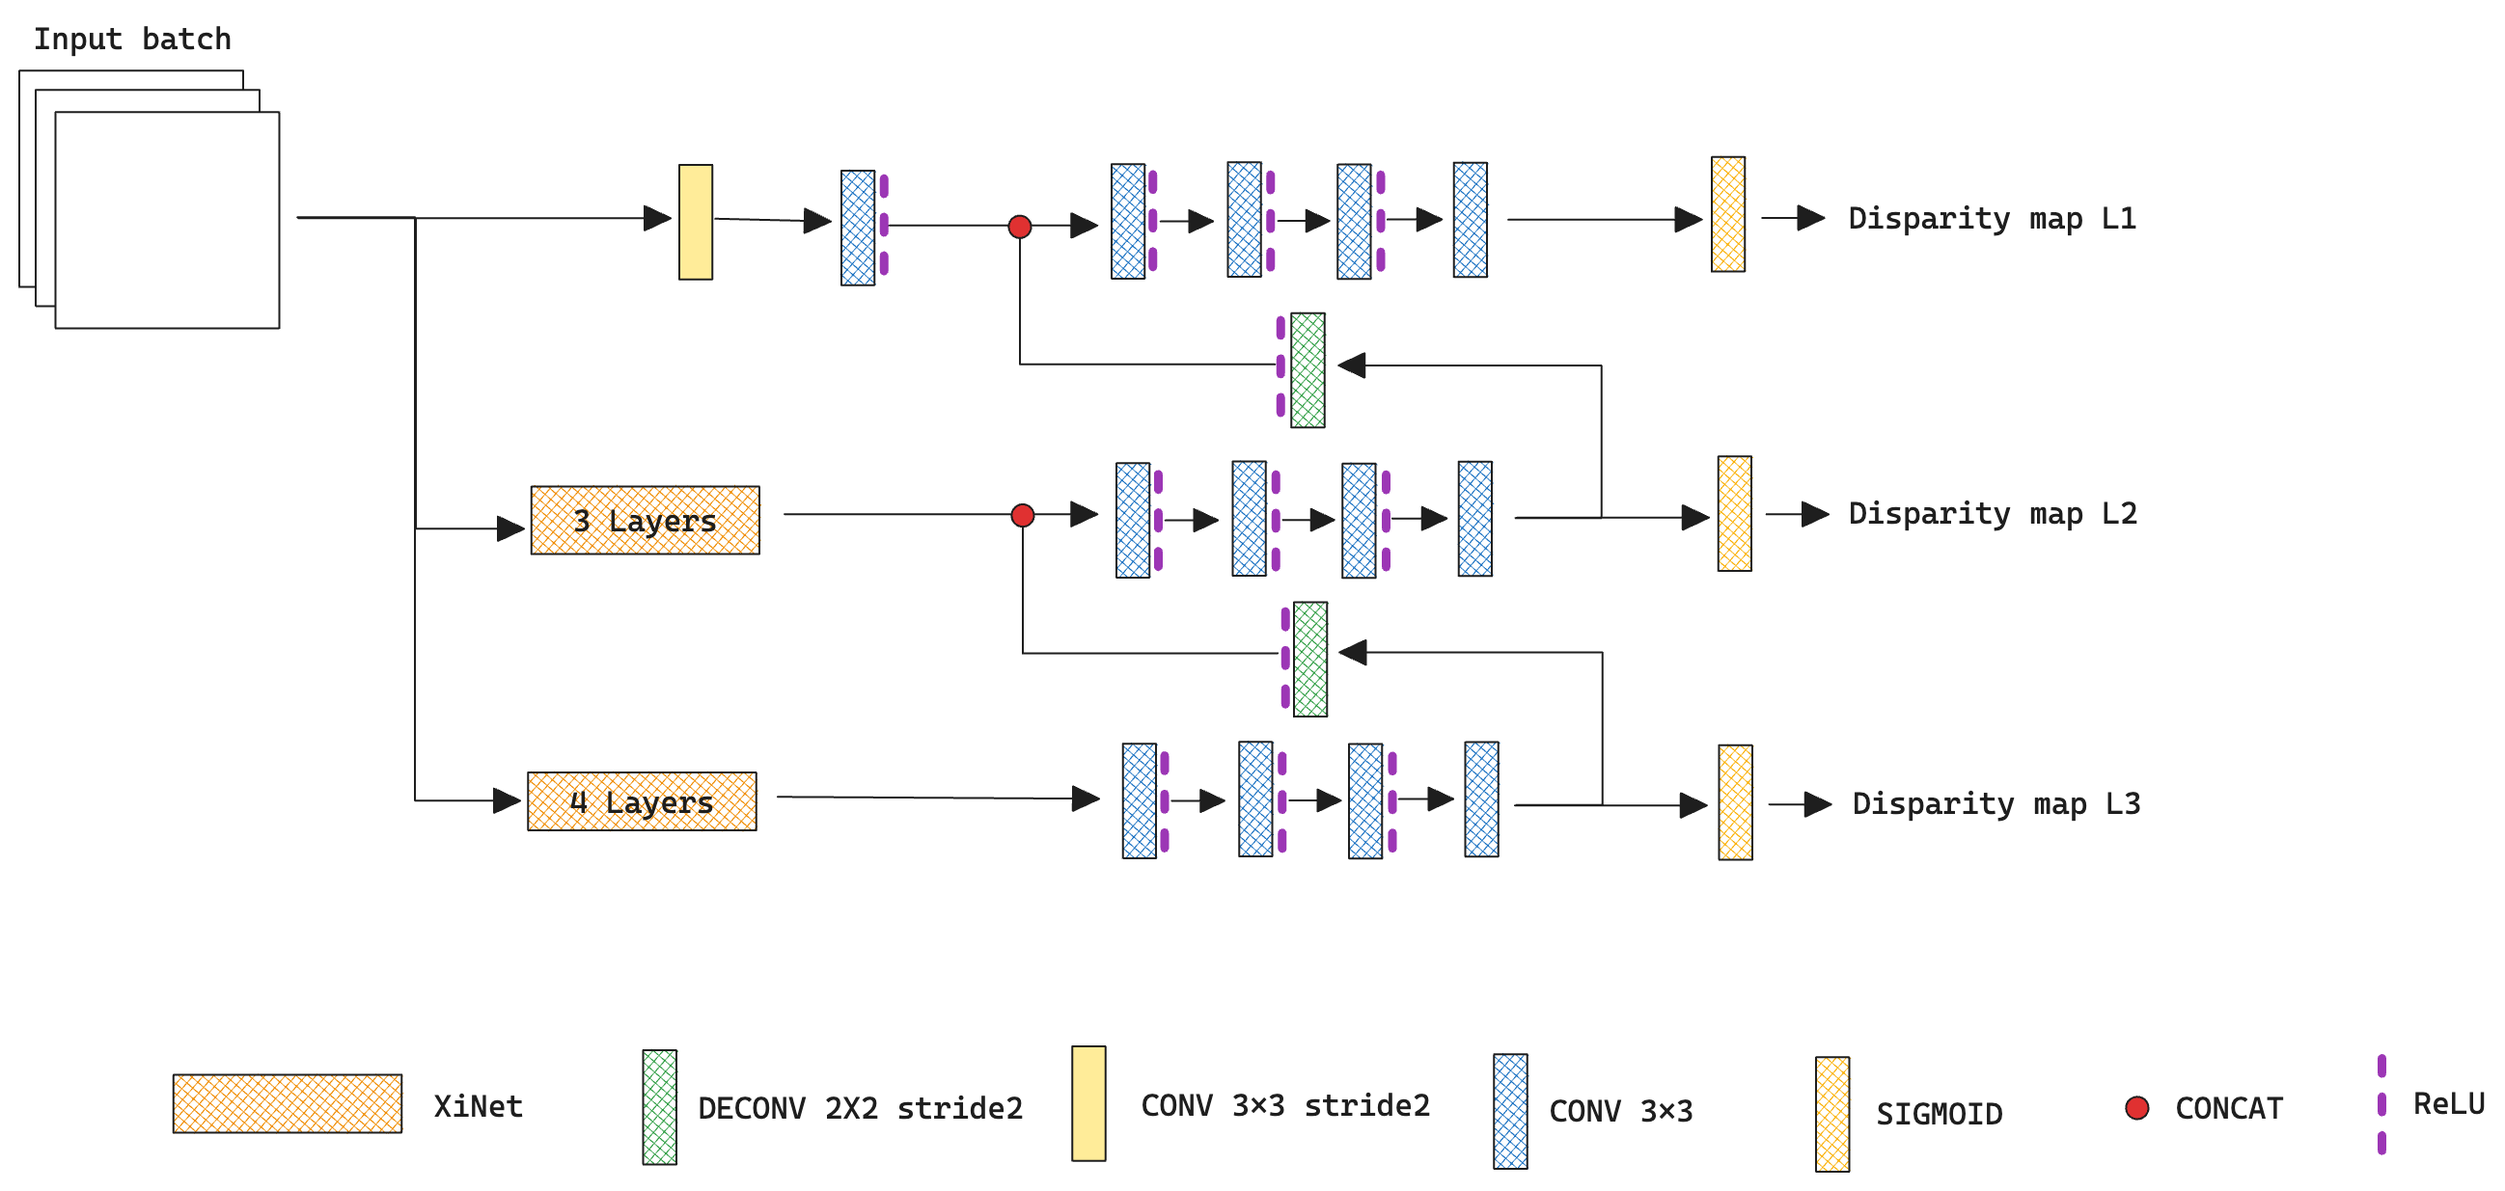
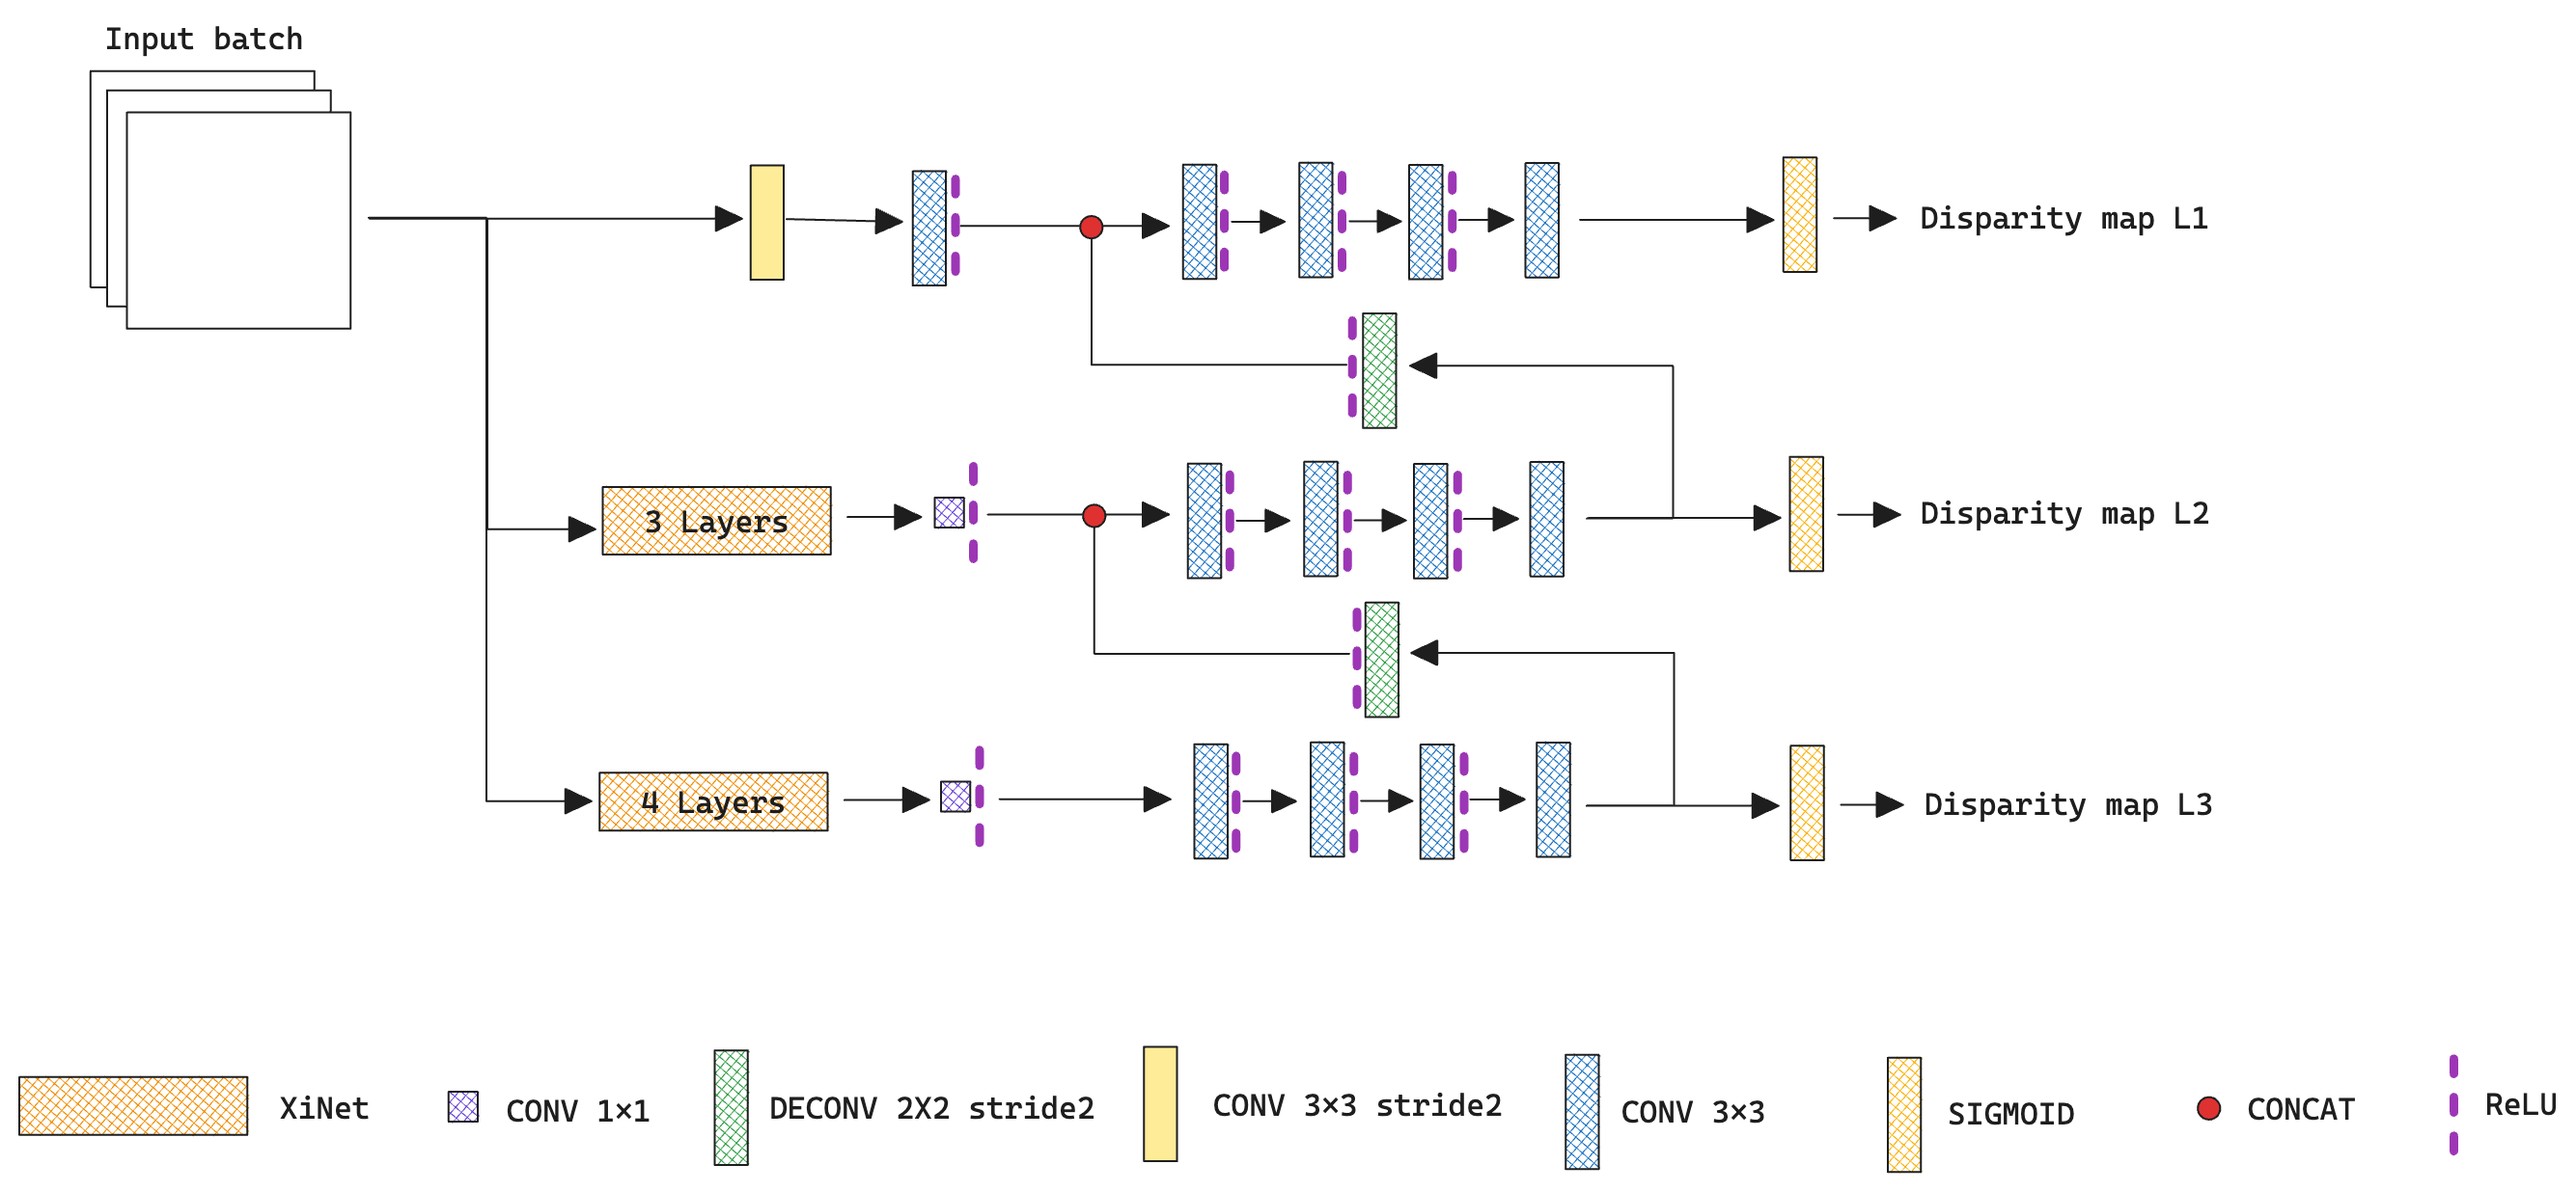
Added PyXiNetB3

diff --git a/variants_and_experimentations/PyXiNet/PyXiNet.py b/variants_and_experimentations/PyXiNet/PyXiNet.py
@@ -496,10 +496,136 @@ class PyXiNetB2(nn.Module):
         )
 
 
+class PyXiNetB3(nn.Module):
+    def __init__(self, config: ConfigHomeLab | ConfigCluster):
+        super(PyXiNetB3, self).__init__()
+        input_shape = [3, config.image_height, config.image_width]
+
+        # LEVEL 1
+        self.__enc_1 = DownsizingBlock(3, 16)
+        self.__conv_block_1 = LevelConvolutionsBlock(16 + 8)
+
+        # LEVEL 2
+        self.__enc_2 = XiEncoder(
+            input_shape=input_shape,
+            alpha=config.alpha,
+            gamma=config.gamma,
+            num_layers=4,
+            mid_channels=24,
+            out_channels=32,
+        )
+        self.__conv_block_2 = LevelConvolutionsBlock(32 + 8)
+
+        # LEVEL 3
+        self.__enc_3 = XiEncoder(
+            input_shape=input_shape,
+            alpha=config.alpha,
+            gamma=config.gamma,
+            num_layers=5,
+            mid_channels=28,
+            out_channels=64,
+        )
+        self.__conv_block_3 = LevelConvolutionsBlock(64 + 8)
+
+        # LEVEL 4
+        self.__enc_4 = DownsizingBlock(64, 96)
+        self.__conv_block_4 = LevelConvolutionsBlock(96)
+
+        self.__upsizing_4 = UpsizingBlock(8, 8)
+        self.__upsizing_3 = UpsizingBlock(8, 8)
+        self.__upsizing_2 = UpsizingBlock(8, 8)
+
+        self.apply(xavier_init)
+
+    def __level_activations(self, x: torch.Tensor) -> torch.Tensor:
+        """
+        Gives back the disparities for left images on the 0th channel and for the right images on the 1th channel.
+            - `x`: torch.Tensor[B,C,W,H]
+
+        Returns a torch.Tensor[B,2,W,H]
+        """
+        return 0.3 * torch.sigmoid(x[:, :2, :, :])
+
+    def forward(self, x: torch.Tensor) -> List[torch.Tensor]:
+        # Level's starting blocks
+        conv1 = self.__enc_1(x)
+        conv2 = self.__enc_2(x)
+        conv3 = self.__enc_3(x)
+        conv4 = self.__enc_4(conv3)
+
+        # LEVEL 4
+        conv4b = self.__conv_block_4(conv4)
+        disp4 = self.__level_activations(conv4b)
+
+        conv4b = self.__upsizing_4(conv4b)
+
+        # LEVEL 3
+        concat3 = torch.cat((conv3, conv4b), 1)
+        conv3b = self.__conv_block_3(concat3)
+        disp3 = self.__level_activations(conv3b)
+
+        conv3b = self.__upsizing_3(conv3b)
+
+        # LEVEL 2
+        concat2 = torch.cat((conv2, conv3b), 1)
+        conv2b = self.__conv_block_2(concat2)
+        disp2 = self.__level_activations(conv2b)
+
+        conv2b = self.__upsizing_2(conv2b)
+
+        # LEVEL 1
+        concat1 = torch.cat((conv1, conv2b), 1)
+        conv1b = self.__conv_block_1(concat1)
+        disp1 = self.__level_activations(conv1b)
+
+        return [
+            disp1,
+            disp2,
+            disp3,
+            disp4,
+        ]
+
+    @staticmethod
+    def scale_pyramid(img_batch: torch.Tensor, num_scales: int = 3) -> torch.Tensor:
+        """
+        It scales the batch of images to `num_scales` scales, everytime dividing by 2 the height and the width.
+            - `img_batch`: torch.Tensor[B,C,H,W]
+            - `num_scales`: int
+
+        Returns a List[torch.Tensor[B,C,H,W]] with a length of `num_scales`.
+        """
+        scaled_imgs = []
+        _, _, h, w = img_batch.shape
+        for i in range(num_scales):
+            ratio = 2 ** (i + 1)
+            nh = h // ratio
+            nw = w // ratio
+            scaled_img = nn.functional.interpolate(
+                img_batch, size=(nh, nw), mode="area"
+            )
+            scaled_imgs.append(scaled_img)
+        return scaled_imgs
+
+    @staticmethod
+    def upscale_img(
+        img_tensor: torch.Tensor, new_2d_size: tuple[int, int] = (256, 512)
+    ) -> torch.Tensor:
+        """
+        It upscales the `img_tensor` using bilinear interpolation to the specified size `new_2d_size`.
+            - `img_tensor`: torch.Tensor[B,C,H,W];
+            - `new_2d_size`: tuple(width,height).
+
+        Returns a torch.Tensor[B,C,width, height].
+        """
+        return F.interpolate(
+            img_tensor, size=new_2d_size, mode="bilinear", align_corners=True
+        )
+
+
 # xe = XiEncoder([3, 256, 512], 0.4, 4, 4, 64, 64)
 # print(sum(p.numel() for p in xe.parameters()))
 # print(xe(torch.rand([8, 3, 256, 512])).size())
-# xe = PyXiNetA2(ConfigHomeLab())
+# xe = PyXiNetB3(ConfigHomeLab())
 # print(sum(p.numel() for p in xe.parameters()))
 # print(xe(torch.rand([8, 3, 256, 512]))[0].size())
 # xe = PyXiNetB2(ConfigHomeLab())

diff --git a/variants_and_experimentations/PyXiNet/main.py b/variants_and_experimentations/PyXiNet/main.py
@@ -5,7 +5,7 @@ from evaluating import eval_disparities_file
 from using import use_with_path, inference_time_avg_10
 from webcam import Webcam
 import tkinter as tk
-from PyXiNet import PyXiNetA1, PyXiNetA2, PyXiNetB1, PyXiNetB2
+from PyXiNet import PyXiNetA1, PyXiNetA2, PyXiNetB1, PyXiNetB2, PyXiNetB3
 from Config import Config
 
 parser = argparse.ArgumentParser(description="PyDNet pytorch implementation.")
@@ -33,9 +33,10 @@ if args.env not in ["HomeLab", "Cluster"]:
 
 config = Config(args.env).get_configuration()
 # model = PyXiNetA1(config)
-model = PyXiNetA2(config)
+# model = PyXiNetA2(config)
 # model = PyXiNetB1(config)
 # model = PyXiNetB2(config)
+model = PyXiNetB3(config)
 
 if args.mode == "train":
     train(args.env, model)

diff --git a/variants_and_experimentations/PyXiNet/Blocks/DownsizingBlock.py b/variants_and_experimentations/PyXiNet/Blocks/DownsizingBlock.py
@@ -3,7 +3,7 @@ import torch
 
 
 class DownsizingBlock(nn.Module):
-    def __init__(self, in_channels: int, out_channels: int):
+    def __init__(self, in_channels: int, out_channels: int, stride: int = 2):
         super(DownsizingBlock, self).__init__()
 
         self.__block = nn.Sequential(
@@ -11,7 +11,7 @@ class DownsizingBlock(nn.Module):
                 in_channels=in_channels,
                 out_channels=out_channels,
                 kernel_size=3,
-                stride=2,
+                stride=stride,
                 padding=1,
             ),
             nn.LeakyReLU(0.2),

diff --git a/variants_and_experimentations/PyXiNet/Configs/ConfigCluster.py b/variants_and_experimentations/PyXiNet/Configs/ConfigCluster.py
@@ -37,7 +37,7 @@ class ConfigCluster:
         # Output directory for the disparities file and for cluster
         # logs (if you use slurm files)
         self.checkpoint_path: str = (
-            "/home/rtoniolo/Depth/variants_and_experimentations/PyXiNet/outputfiles/checkpoints/alpha2/"
+            "/home/rtoniolo/Depth/variants_and_experimentations/PyXiNet/outputfiles/checkpoints/beta3/"
         )
         # Directory to be used to store checkpoint files.
 
